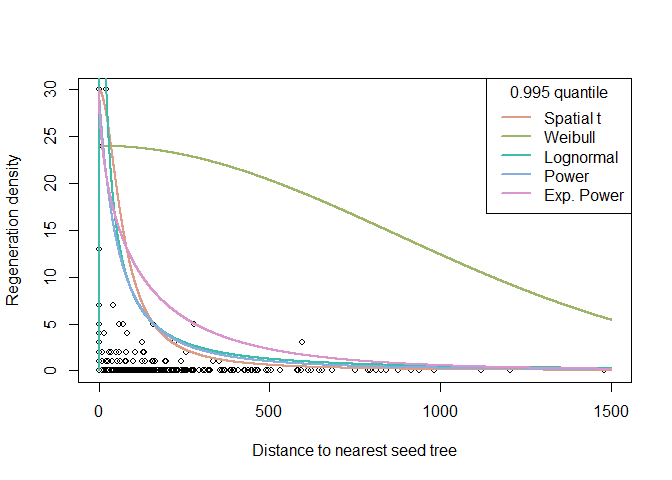
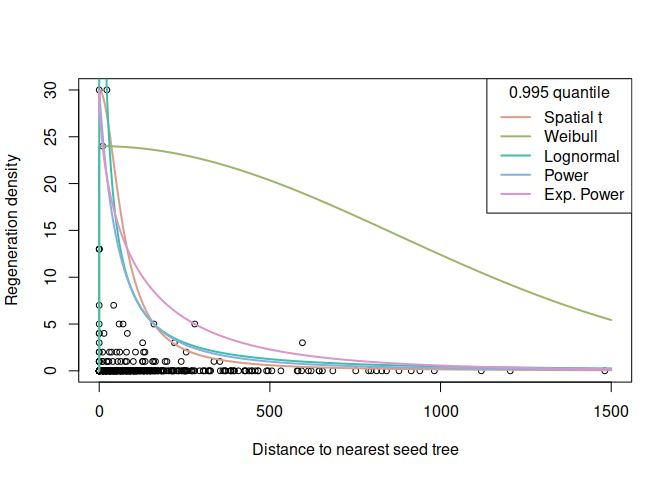
added install from CRAN in README

diff --git a/README.md b/README.md
@@ -41,9 +41,15 @@ Additional kernels can be provided as user-defined functions.
 
 ## Installation
 
-The *quaxnat* package is available on
-[Github](https://github.com/MaximilianAxer/quaxnat). To install the
-development version, run the following code:
+The stable version can be installed from
+[CRAN](https://CRAN.R-project.org/package=quaxnat)
+
+``` r
+install.packages("quaxnat")
+```
+
+and the development version is available from
+[Github](https://github.com/MaximilianAxer/quaxnat)
 
 ``` r
 remotes::install_github("MaximilianAxer/quaxnat")
@@ -119,6 +125,7 @@ the parameterized `quax` object is used for the prediction.
 
 ``` r
 # Create raster data set as prediction area
+set.seed(20240606)
 rr <- terra::rast(matrix(sample(0:10, 20 * 20, replace = TRUE), nrow = 20, ncol = 20))
 
 # Compute distances to seed trees for prediction area
